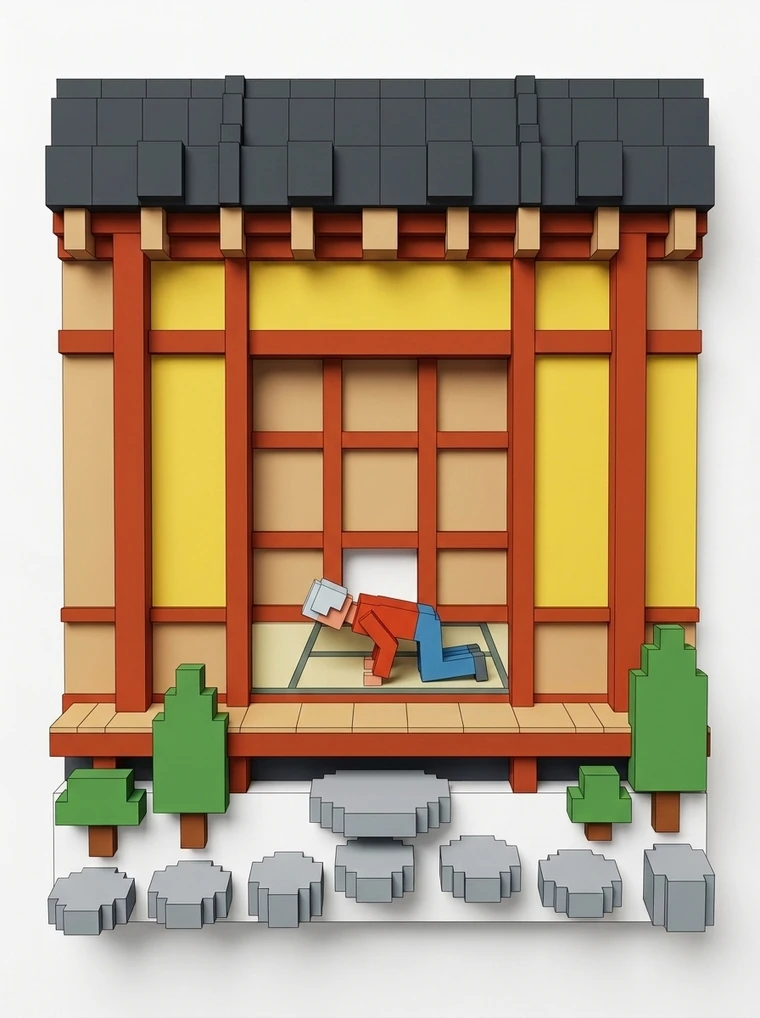
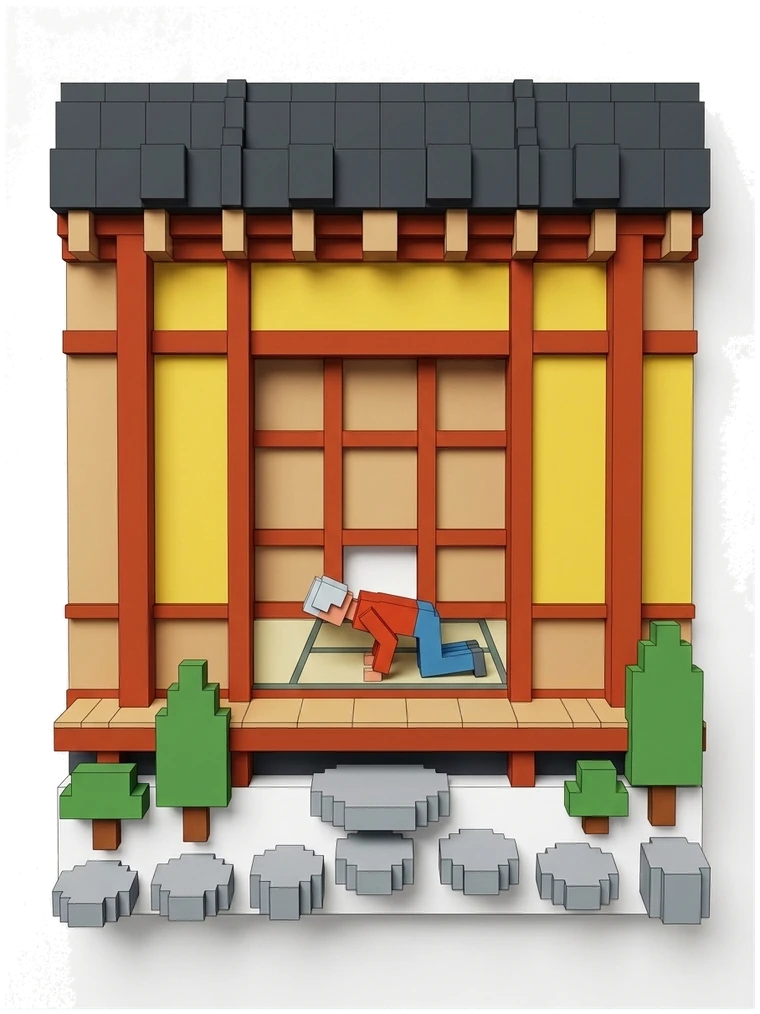
板の地を抜いて紙にし、版に2mmの厚みを付ける
地は#f6f6f6で、白判定では届かず灰色の四角が残っていた。四隅の実際の色を種に
塗りつぶしで抜く。あわせて帯の版に、判面幅100mmに対して2mmの小口を付けた。

Changed region(s): [[0.0605, 0.0611, 0.9382, 0.9172], [0.9987, 0.7337, 1.0, 0.8254]]

diff --git a/src/webgl/Ribbon.tsx b/src/webgl/Ribbon.tsx
@@ -30,6 +30,8 @@ const DEPTH_K = 1.5; // 奥行きへの倒し込み
 const LERP = 0.1; // ポインタ／ドラッグ追従
 const HOVER_SHIFT = 0.26;
 const SHADOW_PAD = 1.34;
+// 版の厚み。判面の幅を100mmとみて、2mmぶん。斜めから見たとき小口が見える。
+const CARD_T = (CARD_W / 100) * 2;
 
 const PAPER = new THREE.Color("#fffefb");
 const INK = new THREE.Color("#121110");
@@ -42,6 +44,8 @@ type Tile = {
   shifter: THREE.Group; // ホバー時のずれ
   mesh: THREE.Mesh<THREE.PlaneGeometry, THREE.ShaderMaterial>;
   shadow: THREE.Mesh<THREE.PlaneGeometry, THREE.ShaderMaterial>;
+  /** 版の厚み。斜めから見たとき小口として見える。 */
+  edge: THREE.Mesh<THREE.BoxGeometry, THREE.MeshBasicMaterial>;
   hit: THREE.Mesh;
   progress: { v: number };
   fade: { v: number };
@@ -148,6 +152,8 @@ export default function Ribbon({
       1,
     );
     const hitGeometry = new THREE.PlaneGeometry(CARD_W * 1.02, CARD_H * 1.02, 1, 1);
+    // 版の厚み。判面のすぐ後ろに、同じ大きさの板を重ねる。
+    const edgeGeometry = new THREE.BoxGeometry(CARD_W, CARD_H, CARD_T);
     const tiles: Tile[] = [];
     const tilesArt: { art: ReturnType<typeof artFor>; material: THREE.ShaderMaterial }[] = [];
     const ribbon = Array.from({ length: cases.length * REPEATS }, (_, i) => i);
@@ -212,8 +218,23 @@ export default function Ribbon({
       shadow.position.z = -0.004;
       shadow.renderOrder = -1;
 
+      // 版の厚み。判面より奥へ沈めるので、正面からはほぼ見えず、
+      // 斜めから見たときだけ小口として出る。
+      const edge = new THREE.Mesh(
+        edgeGeometry,
+        new THREE.MeshBasicMaterial({
+          color: new THREE.Color("#e4e0d8"),
+          transparent: true,
+          opacity: 1,
+          depthWrite: false,
+        }),
+      );
+      edge.position.z = -CARD_T * 0.5 - 0.0008;
+      edge.renderOrder = -0.5;
+
       const shifter = new THREE.Group();
       shifter.add(shadow);
+      shifter.add(edge);
       shifter.add(mesh);
 
       const hit = new THREE.Mesh(
@@ -238,6 +259,7 @@ export default function Ribbon({
         shifter,
         mesh,
         shadow,
+        edge,
         hit,
         progress: { v: 0 },
         fade: { v: 1 },
@@ -523,6 +545,7 @@ export default function Ribbon({
         u.uFade.value = wrapFade * tile.fade.v;
         const su = tile.shadow.material.uniforms;
         su.uFade.value = wrapFade * tile.fade.v;
+        tile.edge.material.opacity = wrapFade * tile.fade.v * u.uAppear.value;
         su.uAppear.value = u.uAppear.value;
         tile.hit.visible = wrapFade > 0.6 && tile.fade.v > 0.5;
 
@@ -598,11 +621,13 @@ export default function Ribbon({
         gsap.killTweensOf(tile.fade);
         tile.mesh.material.dispose();
         tile.shadow.material.dispose();
+        tile.edge.material.dispose();
         (tile.hit.material as THREE.Material).dispose();
       });
       geometry.dispose();
       shadowGeometry.dispose();
       hitGeometry.dispose();
+      edgeGeometry.dispose();
       renderer.dispose();
       gsap.killTweensOf(veil);
       if (renderer.domElement.parentNode === host) {

diff --git a/src/webgl/shaders.ts b/src/webgl/shaders.ts
@@ -566,8 +566,7 @@ export const plateFragmentShader = /* glsl */ `
       // 絵を敷くときに MC を下に残すと、絵の透けた部分から模型が覗く。
       if (uHasArt < 0.5) col = MC;
       if (uHasArt > 0.5) {
-        // 絵の地は白で、版の紙とほぼ同じ。版面いっぱいに敷いて、
-        // 絵の白がそのまま紙として続くようにする。
+        // 板の地は抜いてある。版面いっぱいに、まるごと収めて敷く。
         vec2 rc = vec2(0.0, -0.012);
         vec2 rh = vec2(hx, 0.398);
         vec2 auv = (pa - rc) / (rh * 2.0) + 0.5;
@@ -578,10 +577,9 @@ export const plateFragmentShader = /* glsl */ `
         else                 auv.x = 0.5 + (auv.x - 0.5) * (ra / uArtAspect);
 
         if (auv.x > 0.0 && auv.x < 1.0 && auv.y > 0.0 && auv.y < 1.0) {
-          vec3 a = mix(texture2D(uArtA, auv), texture2D(uArtB, auv), te).rgb;
-          // 絵の白い地は紙に溶かす。四角い継ぎ目が出ないように。
-          float toPaper = smoothstep(0.972, 0.998, min(a.r, min(a.g, a.b)));
-          col = mix(a, col, toPaper);
+          // 板の地は抜いてあるので、紙がそのまま地になる
+          vec4 a = mix(texture2D(uArtA, auv), texture2D(uArtB, auv), te);
+          col = mix(col, a.rgb, clamp(a.a, 0.0, 1.0));
         }
       }
     }

diff --git a/src/webgl/plateArtVersion.ts b/src/webgl/plateArtVersion.ts
@@ -1,5 +1,5 @@
 // tools/shrink-plate.py が書き出す。直接いじらない。
 // 絵の中身から作った版番号。URLに付けて、古い絵が居座るのを防ぐ。
 export const PLATE_ART_VERSION: Record<string, string> = {
-  "01": "ada8f5a91b"
+  "01": "36d4028fc7"
 } as const;

diff --git a/tools/shrink-plate.py b/tools/shrink-plate.py
@@ -1,11 +1,12 @@
 #!/usr/bin/env python3
-"""原本のPNGを、版に載せる軽いWebPに落とす。
+"""原本のPNGから板の地を抜いて、版に載せる軽いWebPにする。
 
     python3 tools/shrink-plate.py 01
 
-絵の地は白で、版の紙とほぼ同じ。**白抜きはしない**——レリーフの落ち影は
-白い板の上に落ちているので、白を抜くと影だけが灰色の染みとして残る。
-版いっぱいに敷いて、絵の白がそのまま紙になるようにする。
+地はまっ白とはかぎらない（#f6f6f6 くらいで返ってくる）。決め打ちの
+しきい値ではなく、**四隅の実際の色**を種にして、縁からつながっている
+ぶんだけを塗りつぶしで抜く。レリーフの落ち影は地より暗いので残り、
+版の紙の上にそのまま落ちる。
 """
 import hashlib
 import json
@@ -13,22 +14,55 @@ import os
 import re
 import sys
 
-from PIL import Image
+import numpy as np
+from PIL import Image, ImageDraw, ImageFilter
 
 ID = sys.argv[1] if len(sys.argv) > 1 else "01"
+KEY = (255, 0, 255)  # 塗りつぶしの目印。絵には出てこない色。
 VERSION_TS = "src/webgl/plateArtVersion.ts"
 
 for name in (f"{ID}-before", f"{ID}-after"):
-    im = Image.open(f"tools/plates-src/{name}.png").convert("RGB")
+    src = Image.open(f"tools/plates-src/{name}.png").convert("RGB")
+
+    # 地の色は四隅から取る（まっ白とはかぎらない）
+    corners = [src.getpixel(p) for p in
+               ((2, 2), (src.width - 3, 2), (2, src.height - 3), (src.width - 3, src.height - 3))]
+    ground = tuple(int(np.median([c[i] for c in corners])) for i in range(3))
+
+    pad = 3
+    canvas = Image.new("RGB", (src.width + pad * 2, src.height + pad * 2), ground)
+    canvas.paste(src, (pad, pad))
+    # 影は地より十分暗いので、しきい値は狭くてよい
+    ImageDraw.floodfill(canvas, (0, 0), KEY, thresh=10)
+
+    arr = np.asarray(canvas)
+    bg = np.all(arr == np.array(KEY, dtype=np.uint8), axis=-1)
+
+    alpha = Image.fromarray(np.where(bg, 0, 255).astype(np.uint8), "L")
+    alpha = alpha.filter(ImageFilter.GaussianBlur(0.8))
+    alpha = alpha.point(lambda v: 0 if v < 70 else min(255, int((v - 70) * 255 / 150)))
+
+    out = canvas.convert("RGBA")
+    out.putalpha(alpha)
+    px = np.array(out)
+    hit = np.all(px[:, :, :3] == np.array(KEY, dtype=np.uint8), axis=-1)
+    px[hit, :3] = ground  # 半透明の縁に目印の色が出ないように
+    out = Image.fromarray(px, "RGBA").crop(Image.fromarray(np.array(alpha)).getbbox())
+
+    # 縁を完全な透明で囲う（版の側で端の画素が引き伸ばされるのを防ぐ）
+    edge = 6
+    framed = Image.new("RGBA", (out.width + edge * 2, out.height + edge * 2), (255, 255, 255, 0))
+    framed.paste(out, (edge, edge))
+    out = framed
+
     w = 760
-    im = im.resize((w, round(w * im.height / im.width)), Image.LANCZOS)
+    out = out.resize((w, round(w * out.height / out.width)), Image.LANCZOS)
     path = f"public/plates/{name}.webp"
-    im.save(path, "WEBP", quality=90, method=6)
-    print(name, im.size, os.path.getsize(path), "bytes")
+    out.save(path, "WEBP", quality=90, method=6)
+    print(name, "地", ground, out.size, os.path.getsize(path), "bytes")
 
 
 # 絵を差し替えてもURLが同じだと、ブラウザが古い絵を返し続ける。
-# 中身から版番号を作り、読み込み側がクエリに付けられるようにする。
 digest = hashlib.sha1()
 for name in (f"{ID}-before", f"{ID}-after"):
     with open(f"public/plates/{name}.webp", "rb") as f:
